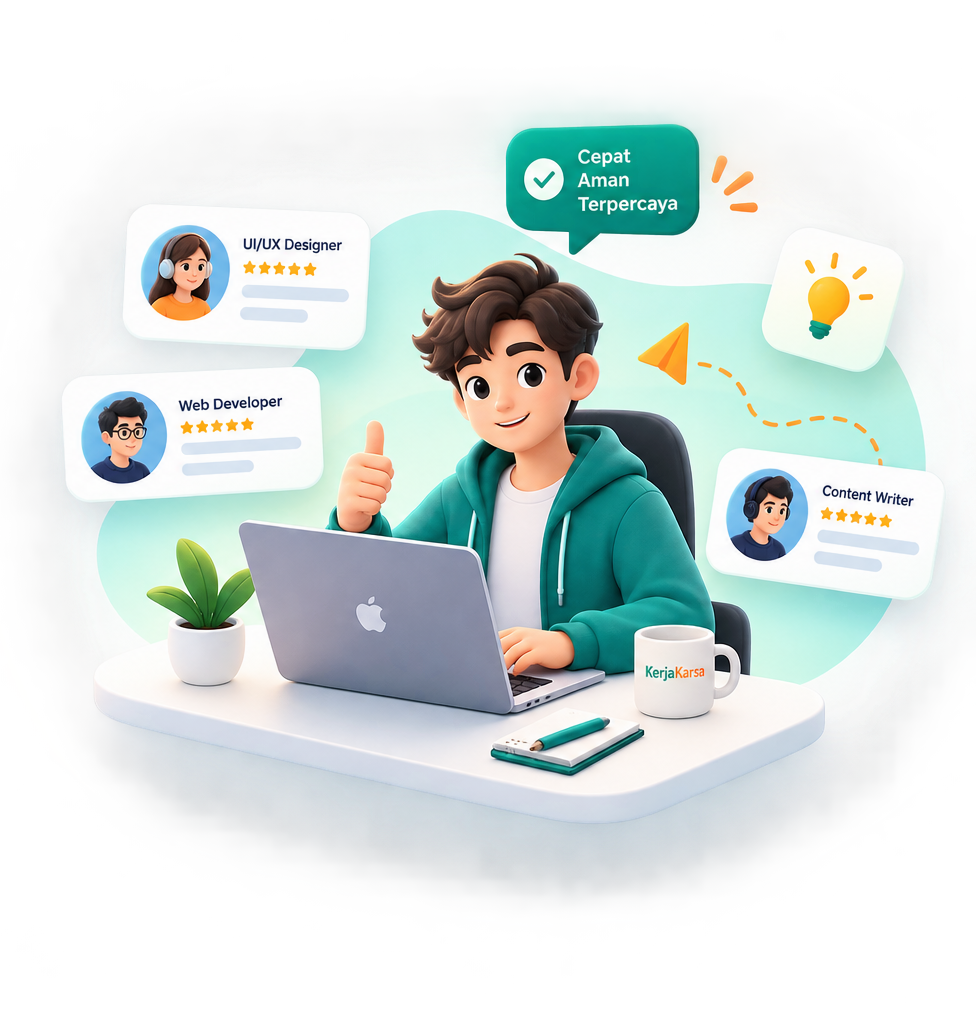
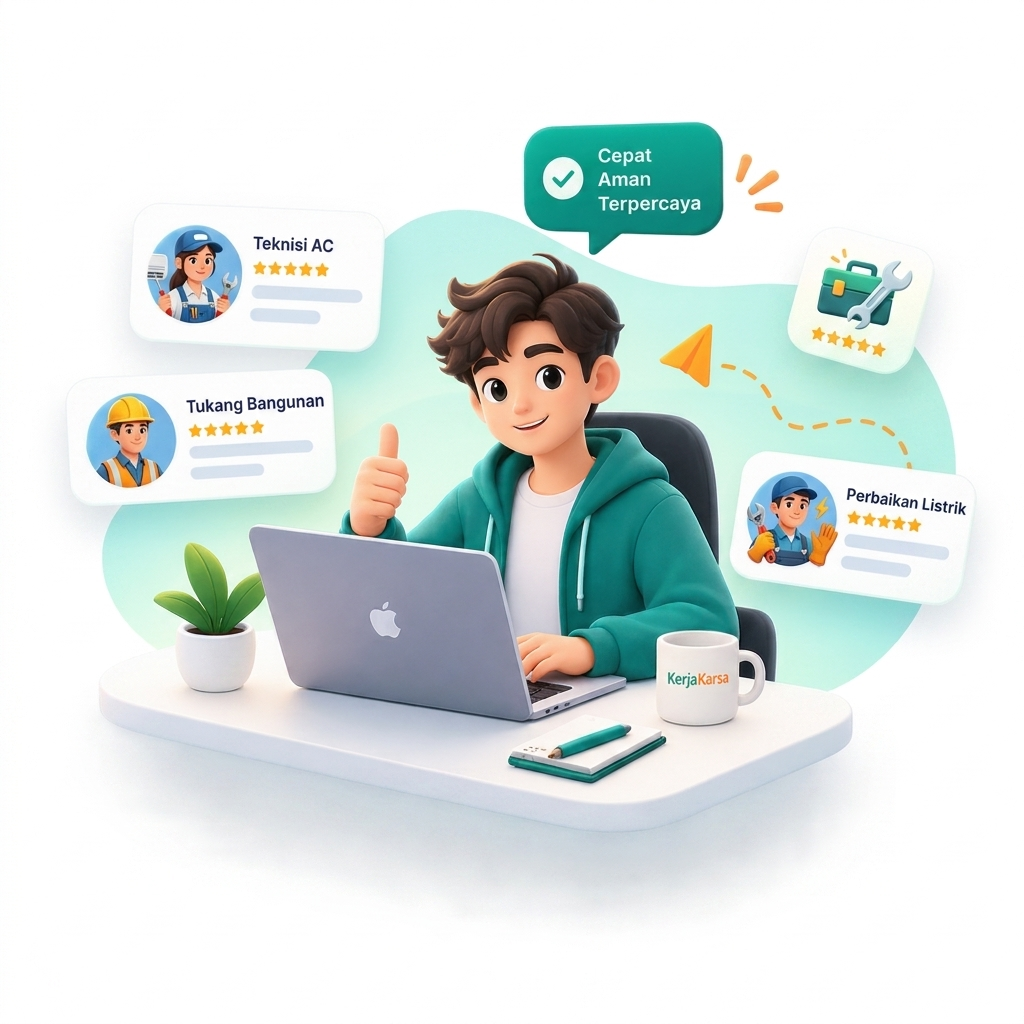
feat: replace hero illustration with AI generated 3D Pixar character featuring informal blue-collar job cards (Teknisi AC, Tukang Bangunan, Perbaikan Listrik)

diff --git a/components/hero-section.tsx b/components/hero-section.tsx
@@ -99,8 +99,8 @@ export function HeroSection() {
             </form>
           </div>
 
-          {/* Right Visual - 3D Character Illustration with Informal Job Overlays */}
-          <div className="relative w-full max-w-md md:max-w-lg aspect-[976/1024] mx-auto rounded-3xl overflow-hidden shadow-xl border border-stone-200/80 bg-white">
+          {/* Right Visual - AI Generated 3D Character Illustration */}
+          <div className="relative w-full max-w-md md:max-w-lg aspect-square mx-auto rounded-3xl overflow-hidden drop-shadow-xl">
             <Image
               src="/gambarlanding.png"
               alt="Ilustrasi Layanan KerjaKarsa"
@@ -108,54 +108,6 @@ export function HeroSection() {
               className="object-contain"
               priority
             />
-
-            {/* Overlay 1: Top-Left Card (Replaces UI/UX Designer -> Teknisi Servis AC) */}
-            <div className="absolute top-[20%] left-[23%] bg-white rounded-2xl px-3 py-2 shadow-lg border border-stone-200/90 flex items-center gap-2.5 z-20 min-w-[155px]">
-              <div className="w-8 h-8 rounded-xl bg-teal-700 text-white font-extrabold text-xs flex items-center justify-center shadow-xs shrink-0">
-                AC
-              </div>
-              <div className="min-w-0">
-                <h4 className="text-xs font-extrabold text-stone-900 leading-tight truncate">Teknisi Servis AC</h4>
-                <div className="flex items-center gap-0.5 mt-0.5">
-                  {[...Array(5)].map((_, i) => (
-                    <Star key={i} size={11} className="fill-amber-500 text-amber-500" />
-                  ))}
-                  <span className="text-[10px] font-bold text-stone-700 ml-1">5.0</span>
-                </div>
-              </div>
-            </div>
-
-            {/* Overlay 2: Bottom-Left Card (Replaces Web Developer -> Tukang Bangunan) */}
-            <div className="absolute top-[38.5%] left-[17%] bg-white rounded-2xl px-3 py-2 shadow-lg border border-stone-200/90 flex items-center gap-2.5 z-20 min-w-[155px]">
-              <div className="w-8 h-8 rounded-xl bg-amber-500 text-stone-900 font-extrabold text-xs flex items-center justify-center shadow-xs shrink-0">
-                TB
-              </div>
-              <div className="min-w-0">
-                <h4 className="text-xs font-extrabold text-stone-900 leading-tight truncate">Tukang Bangunan</h4>
-                <div className="flex items-center gap-0.5 mt-0.5">
-                  {[...Array(5)].map((_, i) => (
-                    <Star key={i} size={11} className="fill-amber-500 text-amber-500" />
-                  ))}
-                  <span className="text-[10px] font-bold text-stone-700 ml-1">4.9</span>
-                </div>
-              </div>
-            </div>
-
-            {/* Overlay 3: Right Card (Replaces Content Writer -> Perbaikan Listrik) */}
-            <div className="absolute top-[46.5%] right-[3.5%] bg-white rounded-2xl px-3 py-2 shadow-lg border border-stone-200/90 flex items-center gap-2.5 z-20 min-w-[150px]">
-              <div className="w-8 h-8 rounded-xl bg-teal-600 text-white font-extrabold text-xs flex items-center justify-center shadow-xs shrink-0">
-                PL
-              </div>
-              <div className="min-w-0">
-                <h4 className="text-xs font-extrabold text-stone-900 leading-tight truncate">Perbaikan Listrik</h4>
-                <div className="flex items-center gap-0.5 mt-0.5">
-                  {[...Array(5)].map((_, i) => (
-                    <Star key={i} size={11} className="fill-amber-500 text-amber-500" />
-                  ))}
-                  <span className="text-[10px] font-bold text-stone-700 ml-1">5.0</span>
-                </div>
-              </div>
-            </div>
           </div>
         </div>
       </div>
